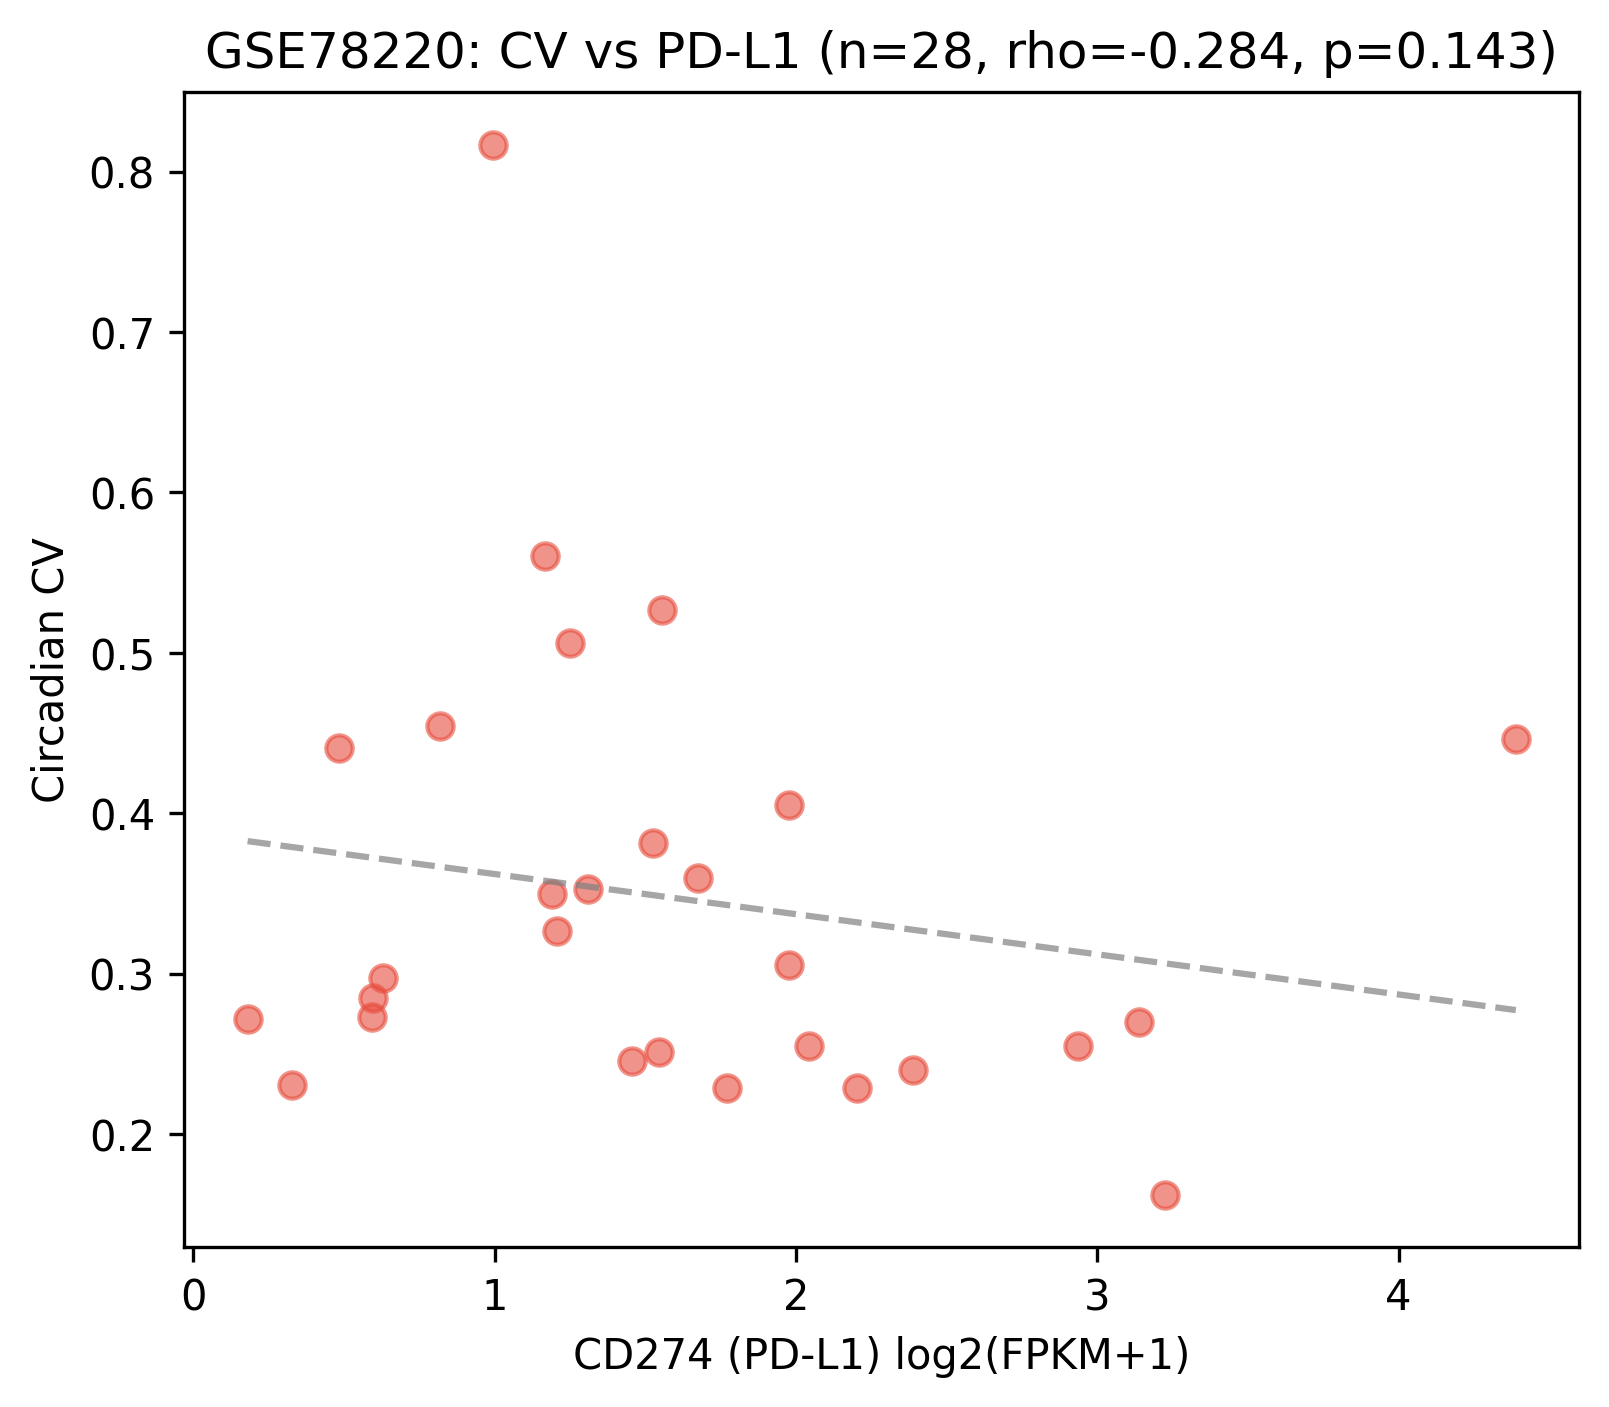
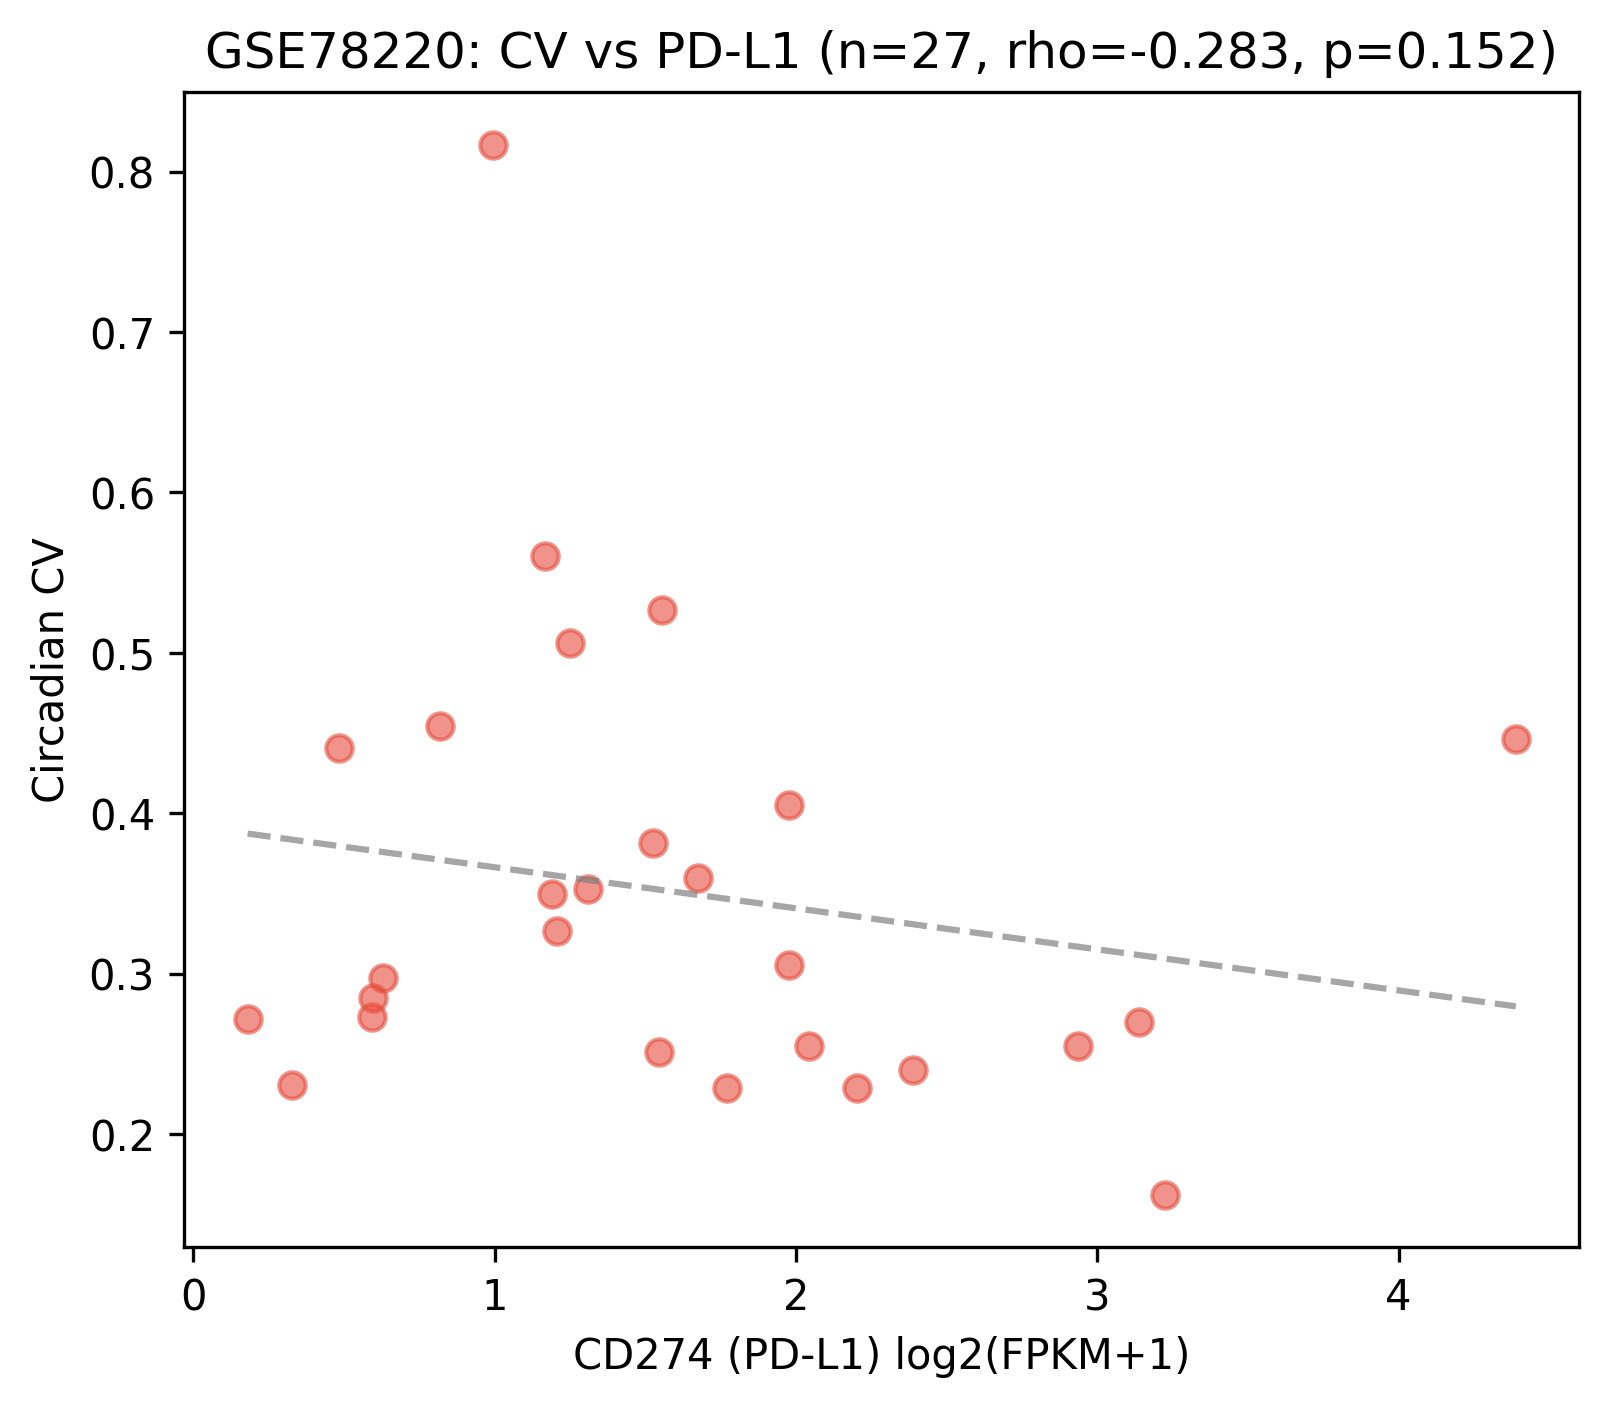
Critical fixes from agent review
- GSE115821 correctly identified as melanoma (Auslander et al.), NOT NSCLC
- GSE78220 filtered to baseline-only (excluded Pt16.OnTx, n=28->27)
- Discussion updated from 7/7 to 9/9 (consistent with abstract)
- Stage FDR family explicitly named (within-family vs global)
- nCV convergent validity clarified as proxy derivation
- External cohorts correctly described as all-melanoma
- README supplementary path references fixed
- Mean-expression partial correlation added to robustness
- IFN-gamma->PER1 mechanism cited (Logan 2013, Shen 2021)
- Title reflects melanoma-specific survival

diff --git a/scripts/check_partial_correlation.py b/scripts/check_partial_correlation.py
@@ -1,0 +1,71 @@
+
+import pandas as pd
+import numpy as np
+import scipy.stats as stats
+import os
+
+# Configuration
+DATA_PATH = "data/tcga_expanded_tpm.csv"
+CIRCADIAN = ["ARNTL", "CLOCK", "PER1", "PER2", "CRY1", "CRY2"]
+
+def log_transform(series):
+    return np.log2(series + 1)
+
+def partial_corr(x, y, covar):
+    # Residualize x and y on covar
+    slope_x, intercept_x, _, _, _ = stats.linregress(covar, x)
+    resid_x = x - (slope_x * covar + intercept_x)
+    
+    slope_y, intercept_y, _, _, _ = stats.linregress(covar, y)
+    resid_y = y - (slope_y * covar + intercept_y)
+    
+    return stats.spearmanr(resid_x, resid_y)
+
+def main():
+    if not os.path.exists(DATA_PATH):
+        print(f"File not found: {DATA_PATH}")
+        return
+
+    df = pd.read_csv(DATA_PATH)
+    print(f"Loaded {len(df)} samples")
+
+    results = []
+    
+    for proj in ["TCGA-SKCM", "TCGA-LUAD", "TCGA-BRCA", "TCGA-COAD", "TCGA-HNSC", "TCGA-LUSC"]:
+        sub = df[df["project_short_name"] == proj].copy()
+        
+        # Calculate Metrics
+        circ_cols = [c for c in CIRCADIAN if c in sub.columns]
+        log_vals = sub[circ_cols].apply(log_transform)
+        mean_expr = log_vals.mean(axis=1)
+        std_expr = log_vals.std(axis=1)
+        cv = std_expr / mean_expr
+        pdl1 = log_transform(sub["CD274"])
+        
+        # Filter NaNs
+        mask = pdl1.notna() & cv.notna() & mean_expr.notna() & np.isfinite(cv)
+        sub = sub[mask]
+        pdl1 = pdl1[mask]
+        cv = cv[mask]
+        mean_expr = mean_expr[mask]
+        
+        # Original Correlation
+        r_orig, p_orig = stats.spearmanr(pdl1, cv)
+        
+        # Partial Correlation controlling for Mean Expression
+        r_partial, p_partial = partial_corr(pdl1, cv, mean_expr)
+        
+        results.append({
+            "project": proj,
+            "orig_rho": r_orig,
+            "orig_p": p_orig,
+            "partial_rho": r_partial,
+            "partial_p": p_partial,
+            "change": r_partial - r_orig
+        })
+        
+    print("\nOriginal vs Partial Correlation (controlling for Mean Clock Expression):")
+    print(pd.DataFrame(results).to_string())
+
+if __name__ == "__main__":
+    main()

diff --git a/scripts/check_cv_mean_artifact.py b/scripts/check_cv_mean_artifact.py
@@ -1,0 +1,52 @@
+
+import pandas as pd
+import numpy as np
+import scipy.stats as stats
+import os
+
+# Configuration
+DATA_PATH = "data/tcga_expanded_tpm.csv"
+CIRCADIAN = ["ARNTL", "CLOCK", "PER1", "PER2", "CRY1", "CRY2"]
+
+def log_transform(series):
+    return np.log2(series + 1)
+
+def compute_metrics(df):
+    circ_cols = [c for c in CIRCADIAN if c in df.columns]
+    log_vals = df[circ_cols].apply(log_transform)
+    
+    # Compute Mean and CV
+    mean_expr = log_vals.mean(axis=1)
+    std_expr = log_vals.std(axis=1)
+    cv = std_expr / mean_expr
+    
+    return mean_expr, cv, log_vals
+
+def main():
+    if not os.path.exists(DATA_PATH):
+        print(f"File not found: {DATA_PATH}")
+        return
+
+    df = pd.read_csv(DATA_PATH)
+    print(f"Loaded {len(df)} samples")
+
+    results = []
+    
+    for proj in df["project_short_name"].unique():
+        sub = df[df["project_short_name"] == proj].copy()
+        mean_expr, cv, log_vals = compute_metrics(sub)
+        
+        # Correlation between CV and Mean
+        r, p = stats.spearmanr(cv, mean_expr)
+        
+        results.append({
+            "project": proj,
+            "rho_cv_mean": r,
+            "p_cv_mean": p
+        })
+        
+    print("\nCorrelation between Circadian CV and Mean Clock Expression:")
+    print(pd.DataFrame(results).to_string())
+
+if __name__ == "__main__":
+    main()

diff --git a/scripts/external_validation_gse78220.py b/scripts/external_validation_gse78220.py
@@ -113,9 +113,9 @@ def load_gse78220(filepath):
         print("Insufficient genes for analysis")
         return None
 
-    # Extract expression for target genes
-    sample_cols = [c for c in df.columns if c != gene_col]
-    print(f"Samples: {len(sample_cols)}")
+    # Extract expression for target genes (baseline only, exclude on-treatment)
+    sample_cols = [c for c in df.columns if c != gene_col and 'OnTx' not in c and 'on.tx' not in c.lower()]
+    print(f"Baseline samples: {len(sample_cols)} (excluded on-treatment)")
 
     result = pd.DataFrame(index=sample_cols)
     for gene, idx_name in found.items():

diff --git a/README.md b/README.md
@@ -107,7 +107,7 @@ Located in `paper/paper1-empirical/figures/` (copies) and `results/` (originals)
 
 ### Supplementary figures (8 files)
 
-Located in `paper/paper1-empirical/supplementary/`.
+Located in `results/csv/` and `results/figures/`.
 
 | Figure | File | Content |
 |--------|------|---------|
@@ -124,7 +124,7 @@ Located in `paper/paper1-empirical/supplementary/`.
 
 ## Supplementary Data Files (16 files)
 
-Located in `paper/paper1-empirical/supplementary/`.
+Located in `results/csv/` and `results/figures/`.
 
 | File | Description | Rows |
 |------|-------------|------|
